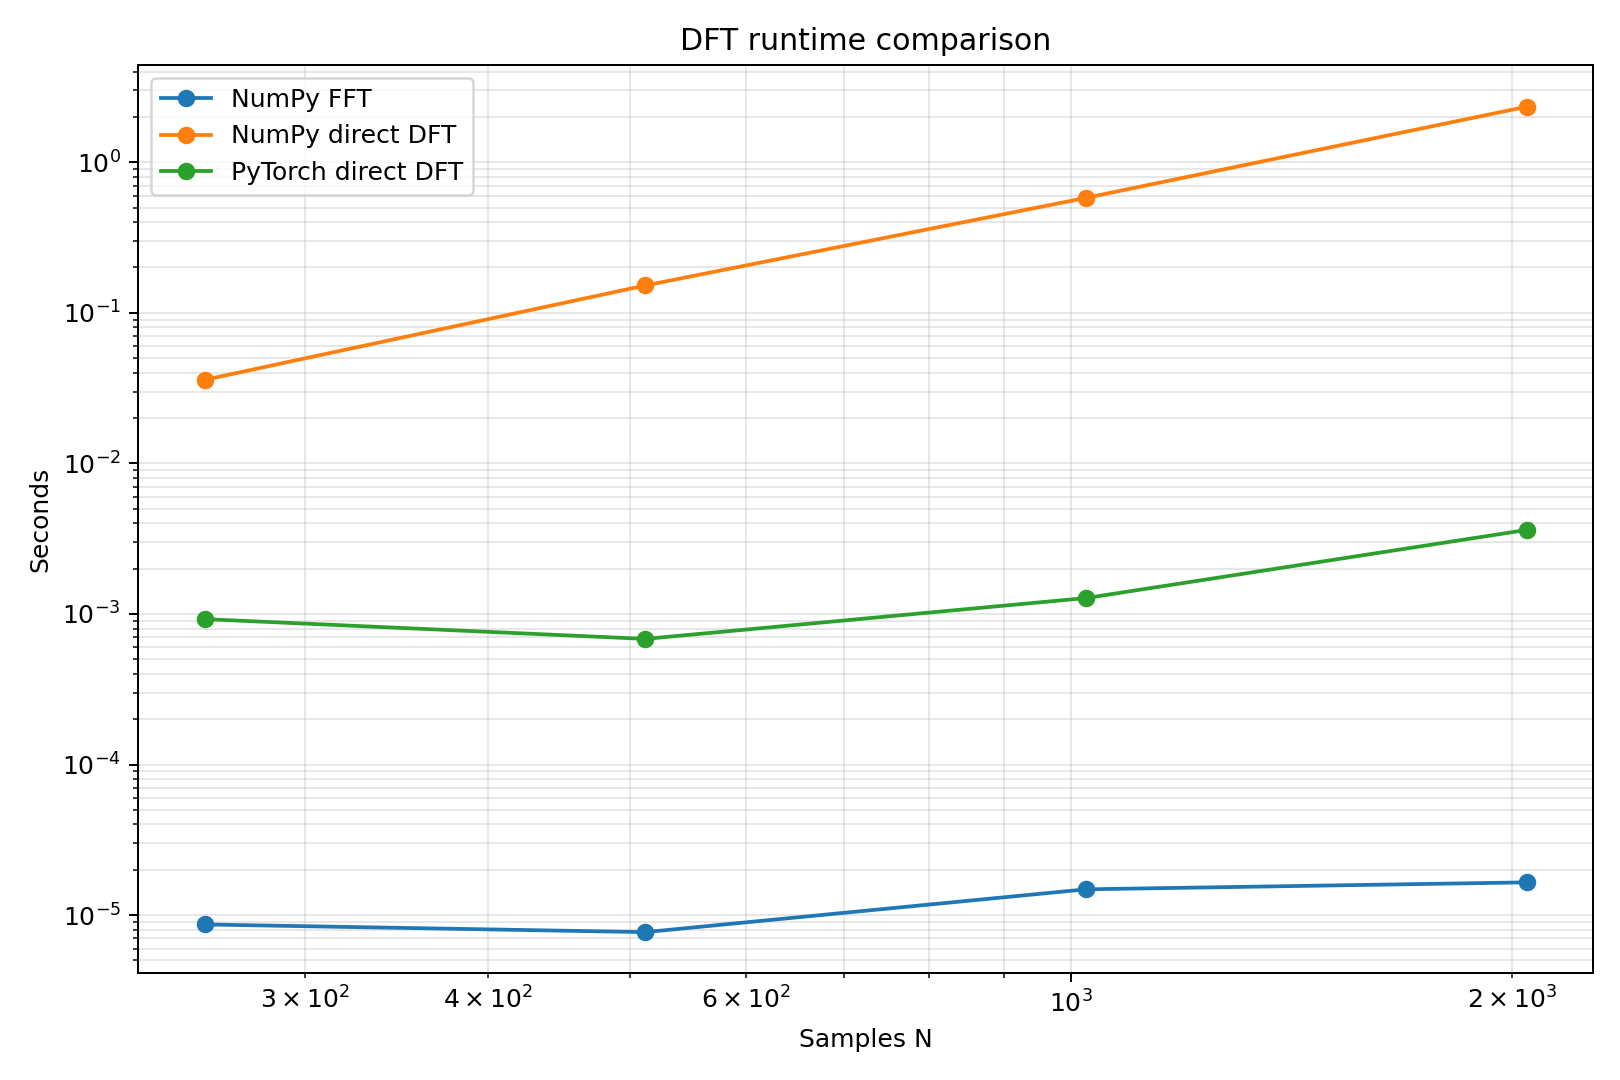
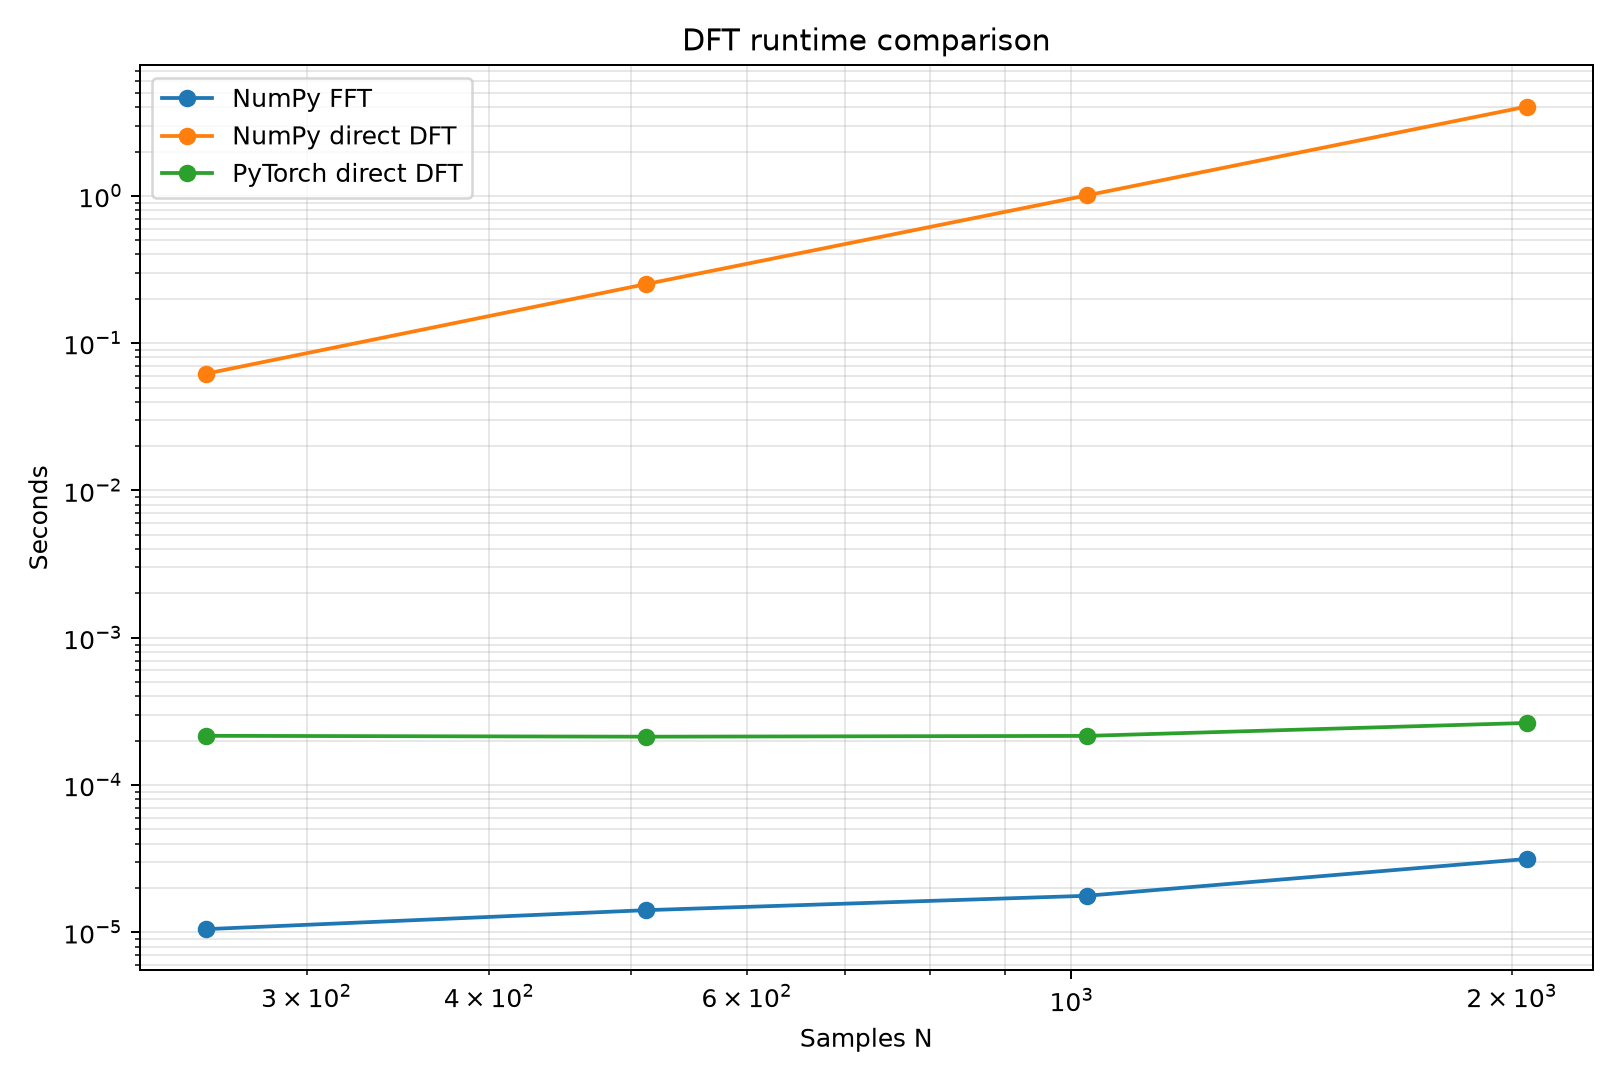
chore: update Part 1 CUDA results and clean tests

diff --git a/part1_dft/main.py b/part1_dft/main.py
@@ -11,10 +11,10 @@ import numpy as np
 import torch
 
 
-N = 2048
-T = 1.0
-f0 = 1
-harmonics = [1, 3, 5, 20, 50]
+N = 2048  # samples
+T = 1.0  # 1 second
+f0 = 1  # 1 Hz
+harmonics = [1, 3, 5, 20, 50]  # test different numbers of Fourier terms
 OUTPUT_DIR = Path(__file__).resolve().parents[1] / "outputs" / "part1"
 
 
@@ -41,36 +41,38 @@ def make_time_axis(N, T=1.0, device="cpu"):
     """Create N evenly spaced samples over [0, T)."""
     if N < 1 or T <= 0:
         raise ValueError("N and T must be positive")
+    # t = [0, 1/2048, 2/2048, ..., 2047/2048] when N=2048 and T=1.
     return torch.arange(N, dtype=torch.float32, device=device) * T / N
-
 
 def square_wave(t):
     """Return a square wave at the sample times."""
-    return torch.sign(torch.sin(2.0 * torch.pi * f0 * t))
+    return torch.sign(torch.sin(2.0 * torch.pi * f0 * t))  # 2πf0t
 
 
-def square_wave_fourier(t, f0, N):
+def square_wave_fourier(t, f0, N):  # N: number of Fourier terms
     """Approximate a square wave with N odd Fourier terms."""
     if N < 1:
         raise ValueError("N must be positive")
     result = torch.zeros_like(t)
     for k in range(N):
-        n = 2 * k + 1
+        n = 2 * k + 1  # get odd harmonics
         result += torch.sin(2 * torch.pi * n * f0 * t) / n
-    return (4 / torch.pi) * result
+    return (4 / torch.pi) * result  # scale the amplitude to about -1 to 1
 
 
 # Part 1B: direct DFT implementations
-def naive_dft(x):
+def naive_dft(x):  # dft_result = naive_dft(signal)
     """Direct PyTorch DFT on the same device as x; no built-in FFT."""
     if x.ndim != 1 or x.numel() == 0:
         raise ValueError("x must be a non-empty one-dimensional signal")
 
-    N = x.numel()
+    N = x.numel()  # number of elements
     x = x.float()
     k = torch.arange(N, dtype=torch.float32, device=x.device).reshape(N, 1)
+    # k = 0, 1, 2, ..., N-1 (column vector)
     n = torch.arange(N, dtype=torch.float32, device=x.device).reshape(1, N)
-    angles = -2 * torch.pi * torch.remainder(k * n, N) / N
+    # n = 0, 1, 2, ..., N-1 (row vector)
+    angles = -2 * torch.pi * torch.remainder(k * n, N) / N  # -2πkn/N
     real = torch.cos(angles) @ x
     imaginary = torch.sin(angles) @ x
     return torch.complex(real, imaginary)

diff --git a/README.md b/README.md
@@ -19,14 +19,7 @@ I used Python, NumPy, scikit-learn and PyTorch. Install the packages with:
 python -m pip install -r requirements.txt
 ```
 
-Run all tests with:
-
-```bash
-python -m pytest -q
-```
-
-There are currently 22 tests and they all pass. Datasets and model checkpoints
-are not uploaded to GitHub because they are large.
+Datasets and model checkpoints are not uploaded to GitHub because they are large.
 
 ## Part 1 — Fourier series and DFT
 
@@ -42,8 +35,8 @@ This script:
 - compares both direct methods with NumPy FFT for different values of `N`.
 
 The PyTorch DFT does not use a built-in FFT. It runs on CUDA, Apple MPS or CPU.
-All results matched the FFT reference. In my local result, NumPy FFT was fastest,
-followed by the PyTorch DFT on MPS, then the NumPy direct DFT.
+All results matched the FFT reference. In the Rangpur CUDA result, NumPy FFT was
+fastest, followed by the PyTorch direct DFT, then the NumPy direct DFT.
 
 ![Fourier reconstruction](outputs/part1/reconstructions.png)
 
